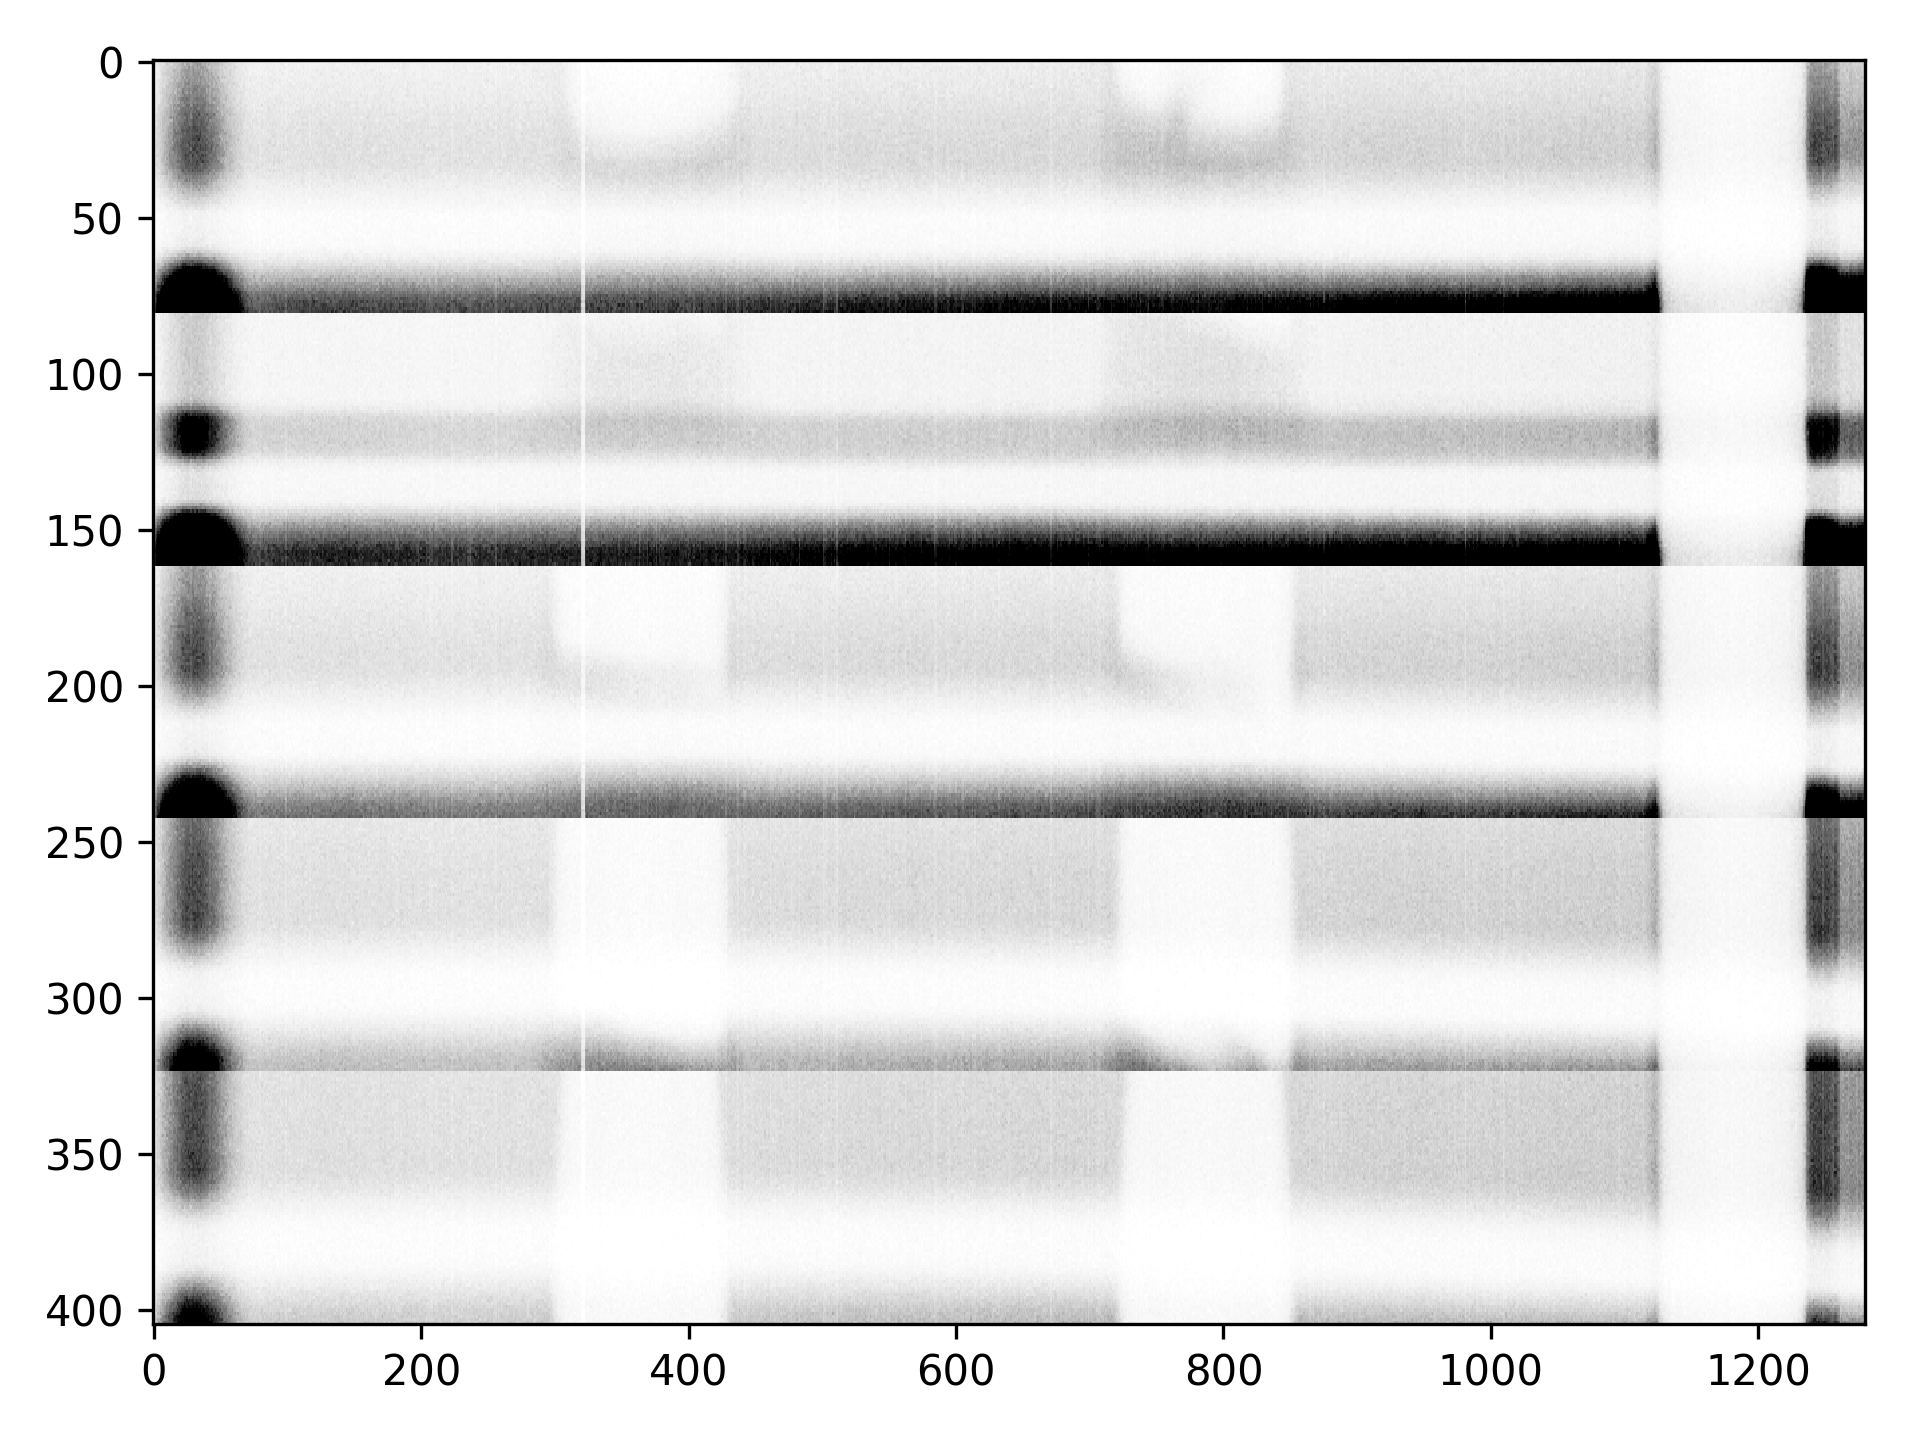
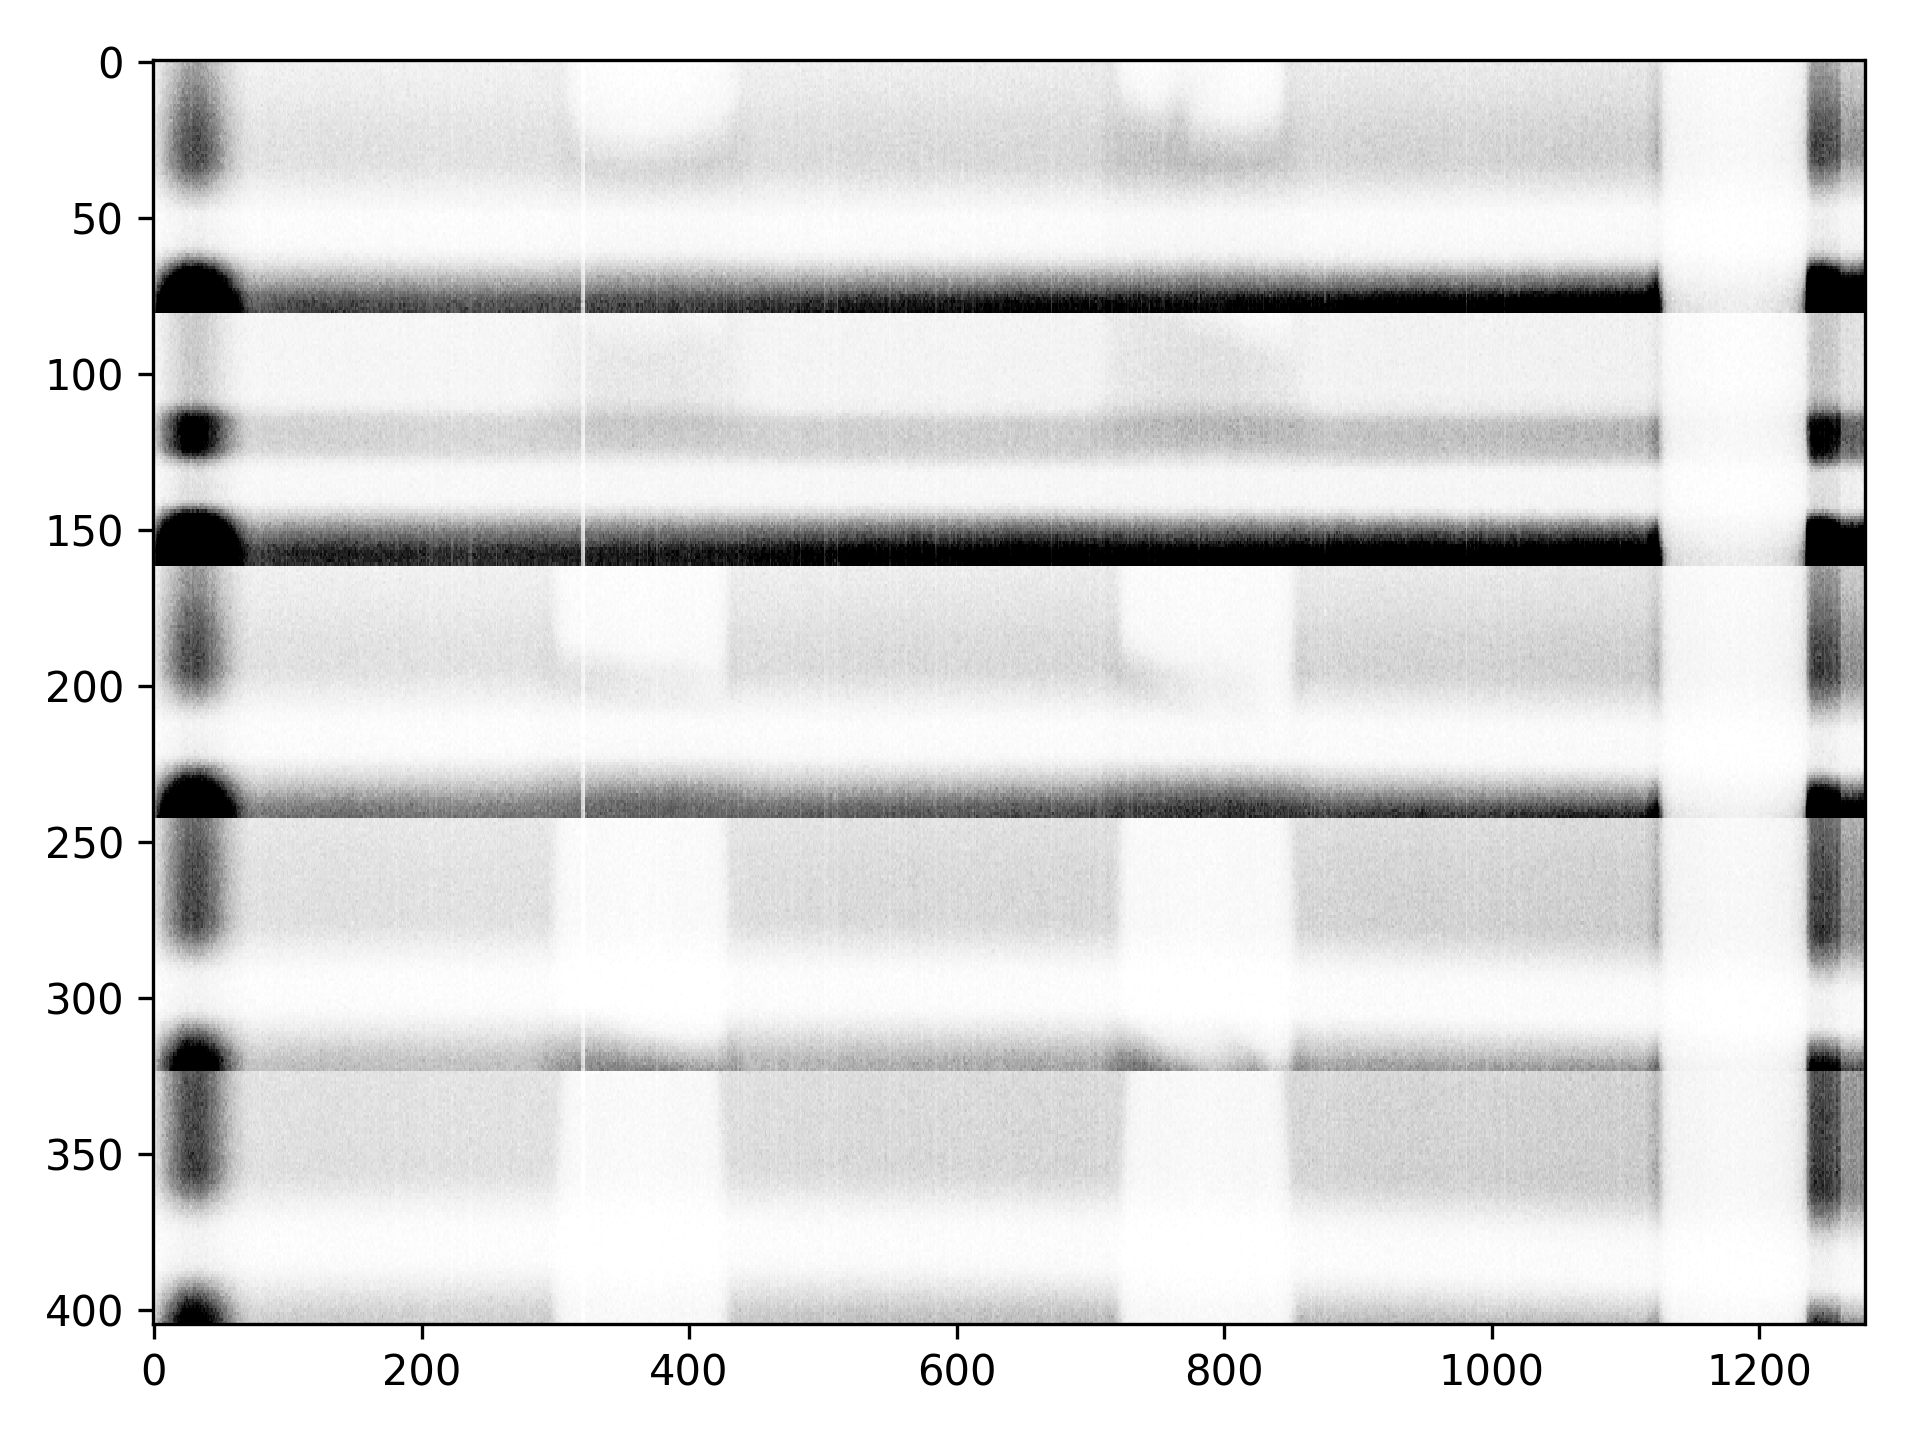
fix #20

diff --git a/Chapters/Chapter03.tex b/Chapters/Chapter03.tex
@@ -367,7 +367,18 @@ The alignment steps are as follows:
         of \G{1} cannot be directly observed since the phase-shifting
         structures do not provide enough absorption to be visible.
         Moir\'e fringes are used to get the best alignment: the grating is
-        best aligned when such fringes disappear;
+        best aligned when such fringes disappear (see
+        figure~\ref{fig:alignment-g1roty});
+        \begin{figure}[htb]
+            \centering
+            \includegraphics[width=.5\textwidth]{gfx/mythen-edge-on/g1roty.png}
+            \caption{Alignment of the \G1 grating with respect to the rotation
+            around the $y$ axis. The image of the fringes is the result of
+            scanning the rotation-$y$ motor from \num{-1} to
+            \SI{+1}{\degree}. The central position where the fringe
+            disappears is chosen as the best alignment.}
+            \label{fig:alignment-g1roty}
+        \end{figure}
     \item visibility scans with small excursions and fine steps
         ($\pm\SI{0.05}{\degree}$ and $\pm\SI{0.2}{\milli\meter}$) are
         performed for all degrees of freedom in order to apply small

diff --git a/gfx/image_series.py b/gfx/image_series.py
@@ -6,13 +6,15 @@ from scipy import stats
 
 
 @click.command()
+@click.option("--min_x", default=0)
+@click.option("--max_x", default=-1)
 @click.argument("input_file_name", type=click.Path(exists=True))
 @click.argument("output_file_name", type=click.Path())
 @click.option("--group", default="raw_images")
-def main(input_file_name, output_file_name, group):
+def main(min_x, max_x, input_file_name, output_file_name, group):
     with h5py.File(input_file_name) as input_file:
         dataset = np.vstack(
-            d for d in input_file[group].values()
+            d[min_x:max_x] for d in input_file[group].values()
             if isinstance(d, h5py.Dataset))
         print(dataset.shape)
         plt.imshow(dataset,
